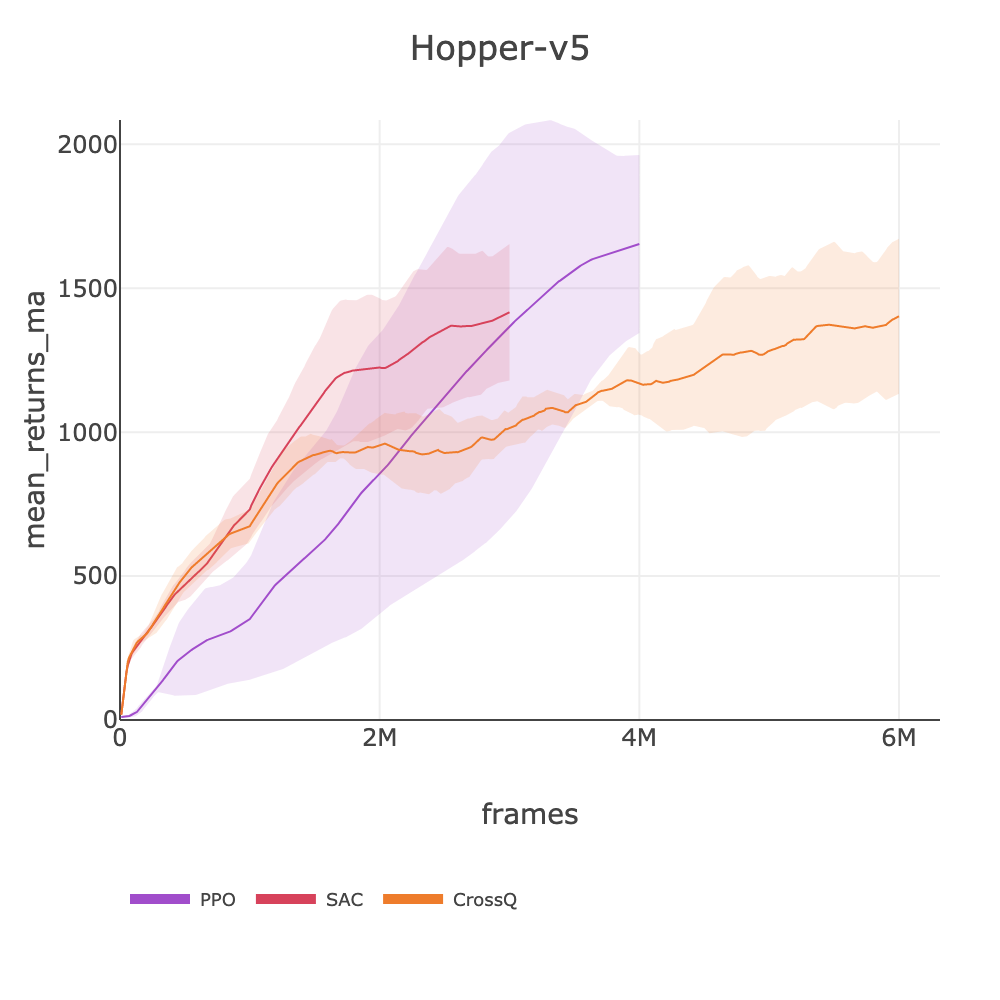
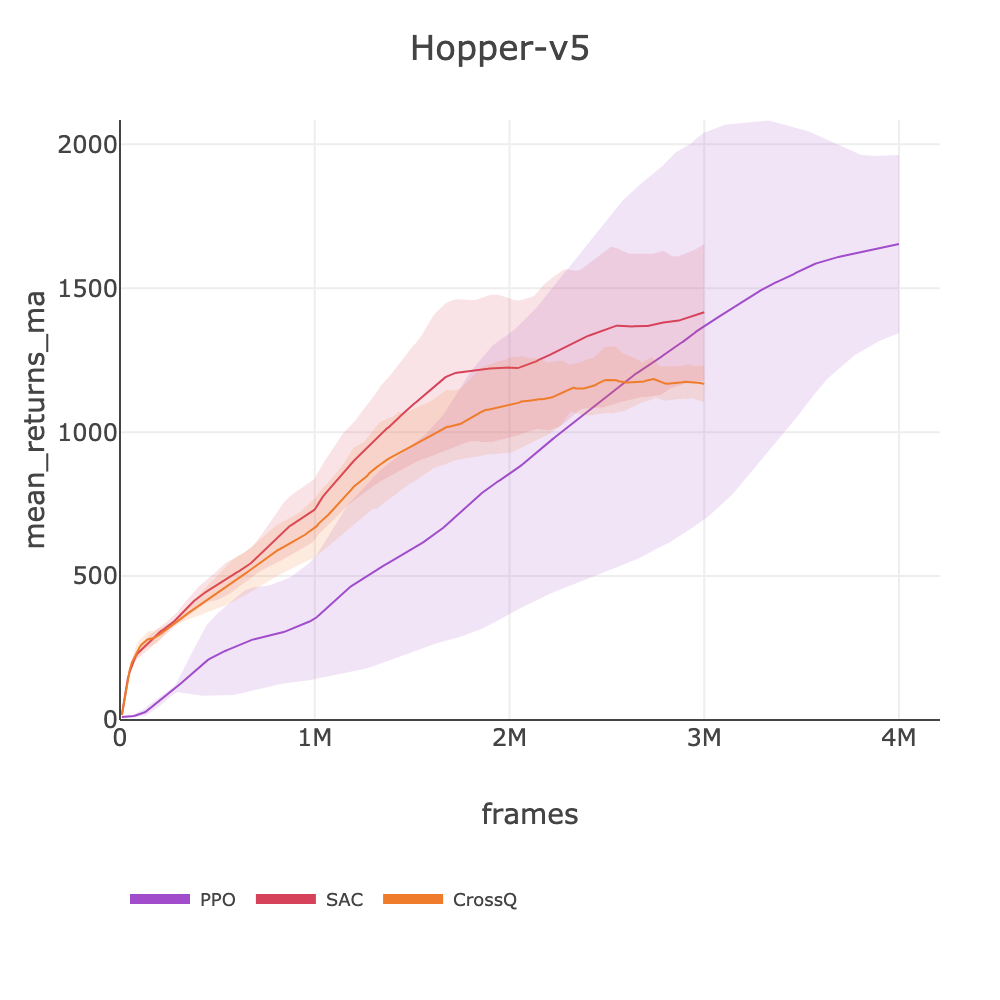
docs: use 3M Hopper run (within env settings) instead of 6M
Hopper env setting is max_frame 4e6. Previous CrossQ entry used a
6M frame run. Replaced with 3M run (MA 1168 vs 1403) that respects
the env settings limit.

diff --git a/docs/BENCHMARKS.md b/docs/BENCHMARKS.md
@@ -107,12 +107,12 @@ Search budget: ~3-4 trials per dimension (8 trials = 2-3 dims, 16 = 3-4 dims, 20
 
 ## Progress
 
-| Phase | Category | Envs | REINFORCE | SARSA | DQN | DDQN+PER | A2C | PPO | SAC | Overall |
-|-------|----------|------|-----------|-------|-----|----------|-----|-----|-----|---------|
-| 1 | Classic Control | 3 | ✅ | ✅ | ⚠ | ✅ | ✅ | ✅ | ✅ | Done |
-| 2 | Box2D | 2 | N/A | N/A | ⚠ | ✅ | ❌ | ⚠ | ⚠ | Done |
-| 3 | MuJoCo | 11 | N/A | N/A | N/A | N/A | N/A | ⚠ | ⚠ | Done |
-| 4 | Atari | 57 | N/A | N/A | N/A | Skip | Done | Done | Done | Done |
+| Phase | Category | Envs | REINFORCE | SARSA | DQN | DDQN+PER | A2C | PPO | SAC | CrossQ | Overall |
+|-------|----------|------|-----------|-------|-----|----------|-----|-----|-----|--------|---------|
+| 1 | Classic Control | 3 | ✅ | ✅ | ⚠ | ✅ | ✅ | ✅ | ✅ | ⚠ | Done |
+| 2 | Box2D | 2 | N/A | N/A | ⚠ | ✅ | ❌ | ⚠ | ⚠ | ⚠ | Done |
+| 3 | MuJoCo | 11 | N/A | N/A | N/A | N/A | N/A | ⚠ | ⚠ | ⚠ | Done |
+| 4 | Atari | 57 | N/A | N/A | N/A | Skip | Done | Done | Done | ❌ | Done |
 
 **Legend**: ✅ Solved | ⚠ Close (>80%) | 📊 Acceptable | ❌ Failed | 🔄 In progress/Pending | Skip Not started | N/A Not applicable
 
@@ -213,13 +213,14 @@ Search budget: ~3-4 trials per dimension (8 trials = 2-3 dims, 16 = 3-4 dims, 20
 
 **Settings**: max_frame 4e6-10e6 | num_envs 16 | max_session 4 | log_frequency 1e4
 
-**Algorithms**: PPO and SAC. Network: MLP [256,256], orthogonal init. PPO uses tanh activation; SAC uses relu.
+**Algorithms**: PPO, SAC, and CrossQ. Network: MLP [256,256], orthogonal init. PPO uses tanh activation; SAC and CrossQ use relu. CrossQ uses Batch Renormalization in critics (no target networks).
 
-**Note on SAC frame budgets**: SAC uses higher update-to-data ratios (more gradient updates per step), making it more sample-efficient but slower per frame than PPO. SAC benchmarks use 1-4M frames (vs PPO's 4-10M) to fit within practical GPU wall-time limits (~6h). Scores may still be improving at cutoff.
+**Note on SAC/CrossQ frame budgets**: SAC uses higher update-to-data ratios (more gradient updates per step), making it more sample-efficient but slower per frame than PPO. SAC benchmarks use 1-4M frames (vs PPO's 4-10M) to fit within practical GPU wall-time limits (~6h). CrossQ uses UTD=1 (like PPO) but eliminates target network overhead, achieving ~700 fps — its frame budgets (3-7.5M) reflect this speed advantage. Scores may still be improving at cutoff.
 
 **Spec Files** (one file per algorithm, all envs via YAML anchors):
 - **PPO**: [ppo_mujoco_arc.yaml](../slm_lab/spec/benchmark_arc/ppo/ppo_mujoco_arc.yaml)
 - **SAC**: [sac_mujoco_arc.yaml](../slm_lab/spec/benchmark_arc/sac/sac_mujoco_arc.yaml)
+- **CrossQ**: [crossq_mujoco.yaml](../slm_lab/spec/benchmark/crossq/crossq_mujoco.yaml)
 
 **Spec Variants**: Each file has a base config (shared via YAML anchors) with per-env overrides:
 
@@ -230,6 +231,8 @@ Search budget: ~3-4 trials per dimension (8 trials = 2-3 dims, 16 = 3-4 dims, 20
 | ppo_{env}_arc | Ant, Hopper, Swimmer, IP, IDP | Per-env tuned (gamma, lam, lr) |
 | sac_mujoco_arc | (generic, use with -s flags) | Base: gamma=0.99, iter=4, lr=3e-4, [256,256] |
 | sac_{env}_arc | All 11 envs | Per-env tuned (iter, gamma, lr, net size) |
+| crossq_mujoco | (generic base) | Base: gamma=0.99, iter=1, lr=1e-3, policy_delay=3 |
+| crossq_{env} | All 11 envs | Per-env tuned (critic width, actor LN, iter) |
 
 **Reproduce**: Copy `SPEC_NAME` and `MAX_FRAME` from the table below.
 
@@ -241,32 +244,47 @@ source .env && slm-lab run-remote --gpu -s env=ENV -s max_frame=MAX_FRAME \
 # SAC: env and max_frame are hardcoded per spec — no -s flags needed
 source .env && slm-lab run-remote --gpu \
   slm_lab/spec/benchmark_arc/sac/sac_mujoco_arc.yaml SPEC_NAME train -n NAME
+
+# CrossQ: env and max_frame are hardcoded per spec — no -s flags needed
+source .env && slm-lab run-remote --gpu \
+  slm_lab/spec/benchmark/crossq/crossq_mujoco.yaml SPEC_NAME train -n NAME
 ```
 
 | ENV | SPEC_NAME | MAX_FRAME |
 |-----|-----------|-----------|
 | Ant-v5 | ppo_ant_arc | 10e6 |
 | | sac_ant_arc | 2e6 |
+| | crossq_ant | 6e6 |
 | HalfCheetah-v5 | ppo_mujoco_arc | 10e6 |
 | | sac_halfcheetah_arc | 4e6 |
+| | crossq_halfcheetah | 7.5e6 |
 | Hopper-v5 | ppo_hopper_arc | 4e6 |
 | | sac_hopper_arc | 3e6 |
+| | crossq_hopper | 3e6 |
 | Humanoid-v5 | ppo_mujoco_arc | 10e6 |
 | | sac_humanoid_arc | 1e6 |
+| | crossq_humanoid | 3.5e6 |
 | HumanoidStandup-v5 | ppo_mujoco_arc | 4e6 |
 | | sac_humanoid_standup_arc | 1e6 |
+| | crossq_humanoid_standup | 3.5e6 |
 | InvertedDoublePendulum-v5 | ppo_inverted_double_pendulum_arc | 10e6 |
 | | sac_inverted_double_pendulum_arc | 2e6 |
+| | crossq_inverted_double_pendulum | 3e6 |
 | InvertedPendulum-v5 | ppo_inverted_pendulum_arc | 4e6 |
 | | sac_inverted_pendulum_arc | 2e6 |
+| | crossq_inverted_pendulum | 3e6 |
 | Pusher-v5 | ppo_mujoco_longhorizon_arc | 4e6 |
 | | sac_pusher_arc | 1e6 |
+| | crossq_pusher | 1e6 |
 | Reacher-v5 | ppo_mujoco_longhorizon_arc | 4e6 |
 | | sac_reacher_arc | 1e6 |
+| | crossq_reacher | 1e6 |
 | Swimmer-v5 | ppo_swimmer_arc | 4e6 |
 | | sac_swimmer_arc | 2e6 |
+| | crossq_swimmer | 2e6 |
 | Walker2d-v5 | ppo_mujoco_arc | 10e6 |
 | | sac_walker2d_arc | 3e6 |
+| | crossq_walker2d | 7e6 |
 
 #### 3.1 Ant-v5
 
@@ -306,7 +324,7 @@ source .env && slm-lab run-remote --gpu \
 |-----------|--------|-----|-----------|-----------|---------|
 | PPO | ⚠ | 1653.74 | [slm_lab/spec/benchmark_arc/ppo/ppo_mujoco_arc.yaml](../slm_lab/spec/benchmark_arc/ppo/ppo_mujoco_arc.yaml) | ppo_hopper_arc | [ppo_hopper_arc_hopper_2026_02_12_222206](https://huggingface.co/datasets/SLM-Lab/benchmark/tree/main/data/ppo_hopper_arc_hopper_2026_02_12_222206) |
 | SAC | ⚠ | 1416.52 | [slm_lab/spec/benchmark_arc/sac/sac_mujoco_arc.yaml](../slm_lab/spec/benchmark_arc/sac/sac_mujoco_arc.yaml) | sac_hopper_arc | [sac_hopper_3m_i4_arc_2026_02_14_185434](https://huggingface.co/datasets/SLM-Lab/benchmark/tree/main/data/sac_hopper_3m_i4_arc_2026_02_14_185434) |
-| CrossQ | ⚠ | 1402.93 | [slm_lab/spec/benchmark/crossq/crossq_mujoco.yaml](../slm_lab/spec/benchmark/crossq/crossq_mujoco.yaml) | crossq_hopper | [crossq_hopper_2026_02_28_184352](https://huggingface.co/datasets/SLM-Lab/benchmark/tree/main/data/crossq_hopper_2026_02_28_184352) |
+| CrossQ | ⚠ | 1168.53 | [slm_lab/spec/benchmark/crossq/crossq_mujoco.yaml](../slm_lab/spec/benchmark/crossq/crossq_mujoco.yaml) | crossq_hopper | [crossq_hopper_2026_02_21_101148](https://huggingface.co/datasets/SLM-Lab/benchmark/tree/main/data/crossq_hopper_2026_02_21_101148) |
 
 ![Hopper-v5](plots/Hopper-v5_multi_trial_graph_mean_returns_ma_vs_frames.png)
 
@@ -437,6 +455,7 @@ source .env && slm-lab run-remote --gpu \
 - **A2C**: [a2c_atari_arc.yaml](../slm_lab/spec/benchmark_arc/a2c/a2c_atari_arc.yaml) - RMSprop (lr=7e-4), training_frequency=32
 - **PPO**: [ppo_atari_arc.yaml](../slm_lab/spec/benchmark_arc/ppo/ppo_atari_arc.yaml) - AdamW (lr=2.5e-4), minibatch=256, horizon=128, epochs=4, max_frame=10e6
 - **SAC**: [sac_atari_arc.yaml](../slm_lab/spec/benchmark_arc/sac/sac_atari_arc.yaml) - Categorical SAC, AdamW (lr=3e-4), training_iter=3, training_frequency=4, max_frame=2e6
+- **CrossQ**: [crossq_atari.yaml](../slm_lab/spec/benchmark/crossq/crossq_atari.yaml) - Categorical CrossQ, AdamW (lr=1e-3), training_iter=3, training_frequency=4, max_frame=2e6 (experimental — limited results on 6 games)
 
 **PPO Lambda Variants** (table shows best result per game):
 
@@ -459,6 +478,10 @@ source .env && slm-lab run-remote --gpu -s env=ENV -s max_frame=1e7 \
 # SAC (2M frames - off-policy, more sample-efficient but slower per frame)
 source .env && slm-lab run-remote --gpu -s env=ENV \
   slm_lab/spec/benchmark_arc/sac/sac_atari_arc.yaml sac_atari_arc train -n NAME
+
+# CrossQ (2M frames - experimental, limited games tested)
+source .env && slm-lab run-remote --gpu -s env=ENV \
+  slm_lab/spec/benchmark/crossq/crossq_atari.yaml crossq_atari train -n NAME
 ```
 
 > **Note**: HF Data links marked "-" indicate runs completed but not yet uploaded to HuggingFace. Scores are extracted from local trial_metrics.
@@ -571,7 +594,7 @@ source .env && slm-lab run-remote --gpu -s env=ENV \
 | ALE/MsPacman-v5 | 2330.74 | ppo_atari_lam85_arc | [ppo_atari_lam85_arc_mspacman_2026_02_14_102435](https://huggingface.co/datasets/SLM-Lab/benchmark/tree/main/data/ppo_atari_lam85_arc_mspacman_2026_02_14_102435) |
 | | 1336.96 | sac_atari_arc | [sac_atari_arc_mspacman_2026_02_17_221523](https://huggingface.co/datasets/SLM-Lab/benchmark/tree/main/data/sac_atari_arc_mspacman_2026_02_17_221523) |
 | | 2110 | a2c_gae_atari_arc | [a2c_gae_atari_mspacman_2026_02_01_001100](https://huggingface.co/datasets/SLM-Lab/benchmark/tree/main/data/a2c_gae_atari_mspacman_2026_02_01_001100) |
-| | ❌ 356.80 | crossq_atari | [crossq_atari_mspacman_v12](https://huggingface.co/datasets/SLM-Lab/benchmark-dev/commit/24eea7c366534f3ca5e933aa90c876adc59b62a4) |
+| | ❌ 356.80 | crossq_atari | [crossq_atari_mspacman_v12](https://huggingface.co/datasets/SLM-Lab/benchmark/tree/main/data/crossq_atari_mspacman_v12) |
 | ALE/NameThisGame-v5 | 6879.23 | ppo_atari_arc | [ppo_atari_arc_namethisgame_2026_02_14_103319](https://huggingface.co/datasets/SLM-Lab/benchmark/tree/main/data/ppo_atari_arc_namethisgame_2026_02_14_103319) |
 | | 3992.71 | sac_atari_arc | [sac_atari_arc_namethisgame_2026_02_17_220905](https://huggingface.co/datasets/SLM-Lab/benchmark/tree/main/data/sac_atari_arc_namethisgame_2026_02_17_220905) |
 | | 5412 | a2c_gae_atari_arc | [a2c_gae_atari_namethisgame_2026_02_01_132733](https://huggingface.co/datasets/SLM-Lab/benchmark/tree/main/data/a2c_gae_atari_namethisgame_2026_02_01_132733) |
@@ -581,7 +604,7 @@ source .env && slm-lab run-remote --gpu -s env=ENV \
 | ALE/Pong-v5 | 16.69 | ppo_atari_lam85_arc | [ppo_atari_lam85_arc_pong_2026_02_14_103722](https://huggingface.co/datasets/SLM-Lab/benchmark/tree/main/data/ppo_atari_lam85_arc_pong_2026_02_14_103722) |
 | | 10.89 | sac_atari_arc | [sac_atari_arc_pong_2026_02_17_160429](https://huggingface.co/datasets/SLM-Lab/benchmark/tree/main/data/sac_atari_arc_pong_2026_02_17_160429) |
 | | 10.17 | a2c_gae_atari_arc | [a2c_gae_atari_pong_2026_01_31_213635](https://huggingface.co/datasets/SLM-Lab/benchmark/tree/main/data/a2c_gae_atari_pong_2026_01_31_213635) |
-| | ❌ -20.48 | crossq_atari | [crossq_atari_pong_v14](https://huggingface.co/datasets/SLM-Lab/benchmark-dev/commit/c35aa98b4f78ca48bad767cf092cf3a278b7908a) |
+| | ❌ -20.48 | crossq_atari | [crossq_atari_pong_v14](https://huggingface.co/datasets/SLM-Lab/benchmark/tree/main/data/crossq_atari_pong_v14) |
 | ALE/Pooyan-v5 | 5308.66 | ppo_atari_lam70_arc | [ppo_atari_lam70_arc_pooyan_2026_02_14_114730](https://huggingface.co/datasets/SLM-Lab/benchmark/tree/main/data/ppo_atari_lam70_arc_pooyan_2026_02_14_114730) |
 | | 2530.78 | sac_atari_arc | [sac_atari_arc_pooyan_2026_02_17_220346](https://huggingface.co/datasets/SLM-Lab/benchmark/tree/main/data/sac_atari_arc_pooyan_2026_02_17_220346) |
 | | 2997 | a2c_gae_atari_arc | [a2c_gae_atari_pooyan_2026_02_01_132748](https://huggingface.co/datasets/SLM-Lab/benchmark/tree/main/data/a2c_gae_atari_pooyan_2026_02_01_132748) |
